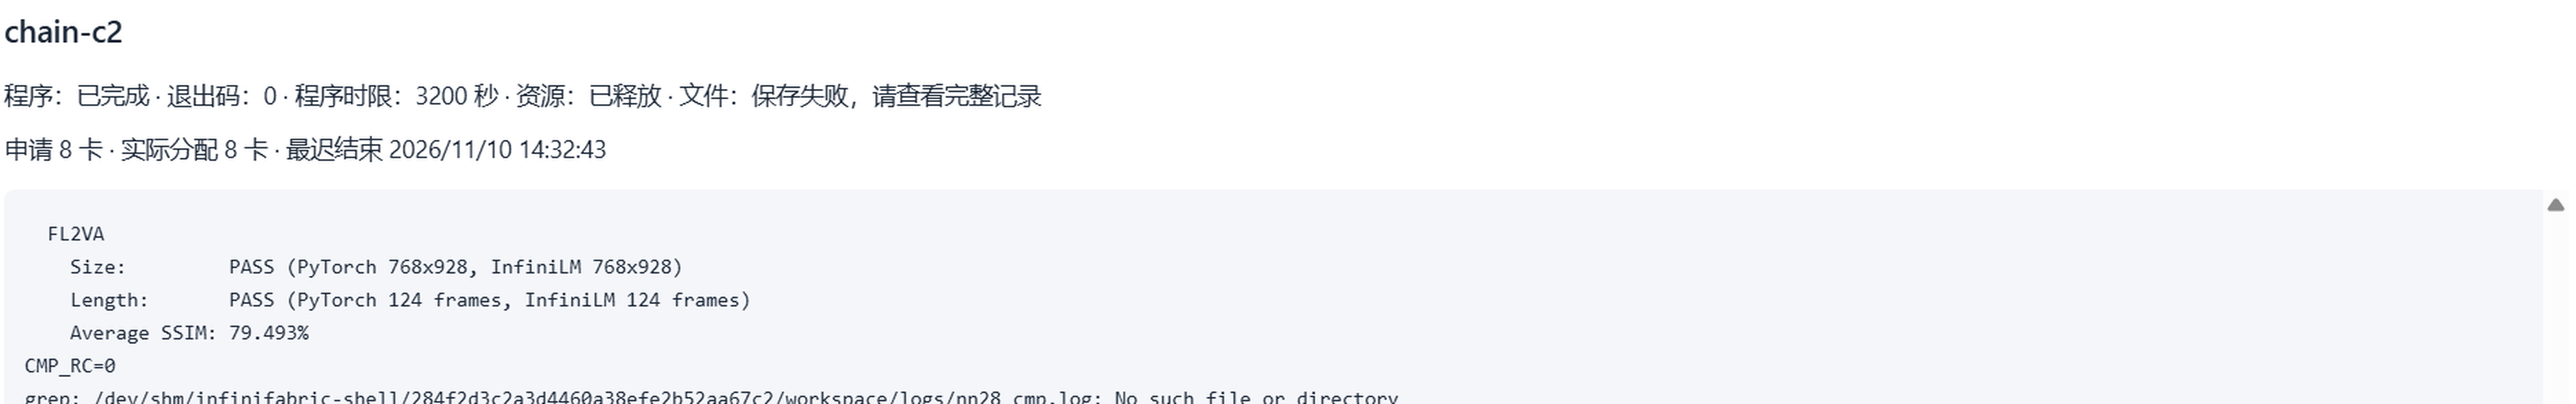
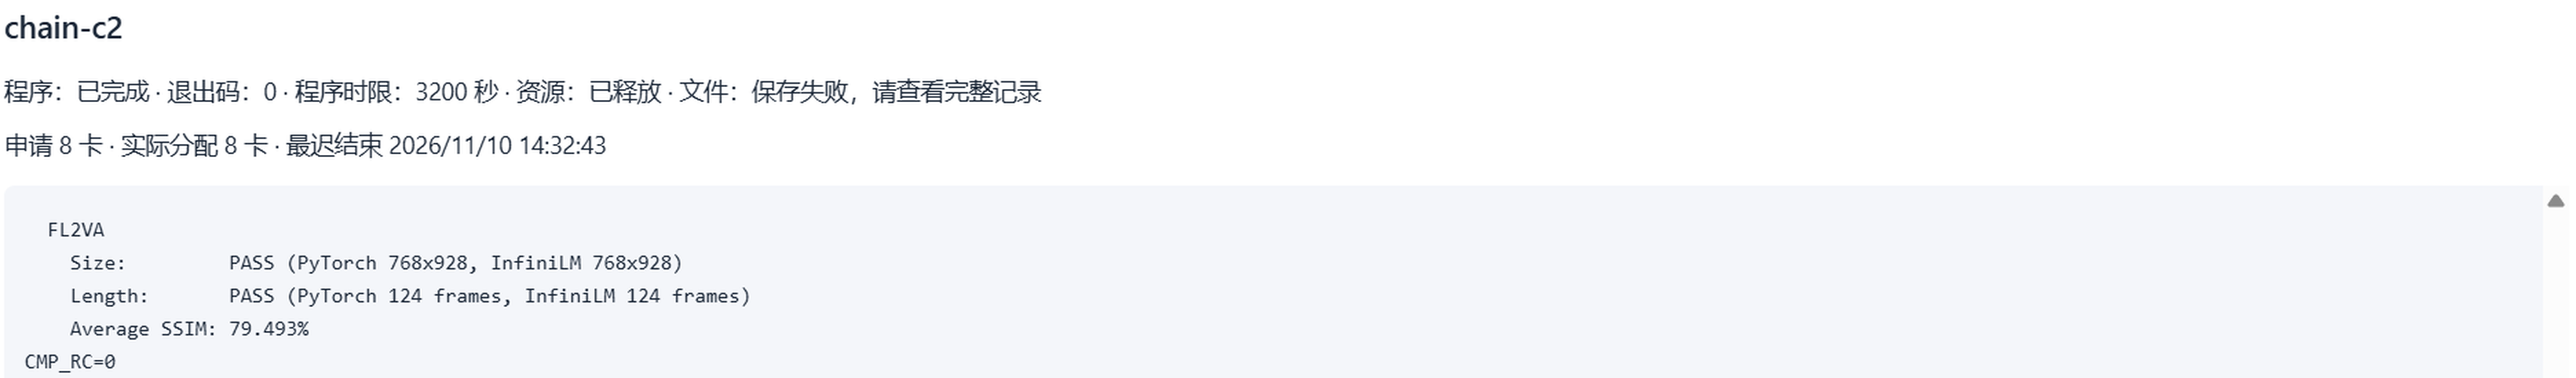
docs: cleaner chain result screenshot (no stale grep tail); repro_run greps only this run logs

diff --git a/docs/提交清单.md b/docs/提交清单.md
@@ -10,7 +10,7 @@
 | `report/初赛实验报告.md` / `.docx` | 初赛阶段全量记录（九齿编译链移植、四个既有算子、新增 fused attention、多设备缓存键、正确性验证、性能与限制），18 页 / 7 表 / 5 图（含三段重建链两张平台截图）；只述当前实现与实测结果 | 待填姓名学号 |
 | `report/【嵩山杯】Minimax初赛阶段报告-zzucs123.docx` | **按组委会官方模板直接产出**（团队信息 / 完成情况 / 复现指令 / 结果 四段，与模板逐段对应；格式、字体、行距、内嵌首帧图片、代码块样式全部继承模板未改），4 页 / 1 张内嵌图片 / 2 个代码块；生成脚本 `stage/build_prelim_tpl.py`（读模板 → 只替换文字）；队伍已填 **zzucs123**，成员待填 | 待填成员 |
 | `report/决赛实验报告.md` / `.docx` | 决赛报告（技术方案 + 四项指标 + 合规），8 张表 | 待填姓名学号 |
-| `report/minimax_h3_eng_pkg_zzucs123.zip` | 可解包可重建工程包：src/（shim 源码、kb7 补丁、HYGON FA 后端、InfiniCore 整套补丁）jobs/（setup、出片、A/B、SSIM、提交器、repro_xmake_step.sh / repro_build.sh / repro_run.sh 三步重建链）build/（from_scratch.sh / reproduce.sh / xmake_build.sh / patch_py.py / gen_dispatch.py / README）src/（InfiniCore 快照 3.76 MB、overlay 19.6 KB、部署 kernel 集 2.46 MB、SHA256SUMS）results/（compare 原始输出、2 步 A/B 表、三段重建链日志 chain_20261110_xmake/build/run.txt）README.md | ✅ 45 文件 / 7.78 MB（含三份可重建输入 + `figures/` 6 张结果截图，README 内嵌可直接看） |
+| `report/minimax_h3_eng_pkg_zzucs123.zip` | 可解包可重建工程包：src/（shim 源码、kb7 补丁、HYGON FA 后端、InfiniCore 整套补丁）jobs/（setup、出片、A/B、SSIM、提交器、repro_xmake_step.sh / repro_build.sh / repro_run.sh 三步重建链）build/（from_scratch.sh / reproduce.sh / xmake_build.sh / patch_py.py / gen_dispatch.py / README）src/（InfiniCore 快照 3.76 MB、overlay 19.6 KB、部署 kernel 集 2.46 MB、SHA256SUMS）results/（compare 原始输出、2 步 A/B 表、三段重建链日志 chain_20261110_xmake/build/run.txt）README.md | ✅ 45 文件 / 7.72 MB（含三份可重建输入 + `figures/` 6 张结果截图，README 内嵌可直接看） |
 | 代码仓库（public） | https://github.com/Wang-Yi-Dao/minimax-h3-fl2va-infini-ninetoothed ｜ 分支 `main` ｜ tag `v1.0-submission` = `a9c03ff`（出片代码）｜ 文档定稿 tag `v1.1-report`（tag 之后仅新增文档、结果说明与可重建输入，未改出片代码） | ✅ |
 | `report/初赛实验报告.md` §8.4 | 合规披露：九齿边界、正式路径计算落点（桥接层不含 ATen/torch 计算分支）、上游 VAE/scheduler 边界、多设备缓存键、第三方组件、作业镜像内四处环境适配补丁逐条说明；工程包 `jobs/setup.py` 即这些补丁的源码 | ✅ |
 | 成片 `nl50_1107_143038_SSIM80.012.mp4` | TP8、768×928、124 帧、24 fps、h264+aac、50 步、含音频（1,620,561 B，sha256 `2475a12e…3637b`），官方 compare **80.012%**；本地 ffprobe 复核与 Size/Length PASS 一致。已下载到交付目录 `07_成片_video/`；重跑件 `nl50_1107_144804.mp4`（79.150%）留在集群 AFS | ✅ |
